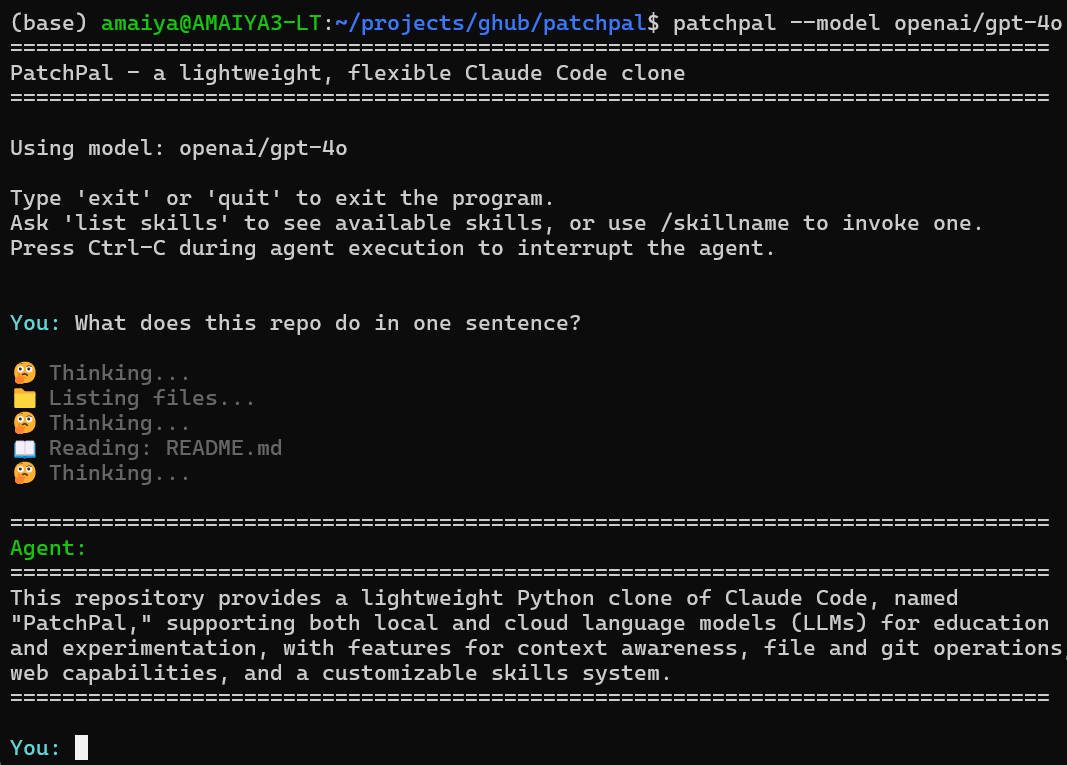
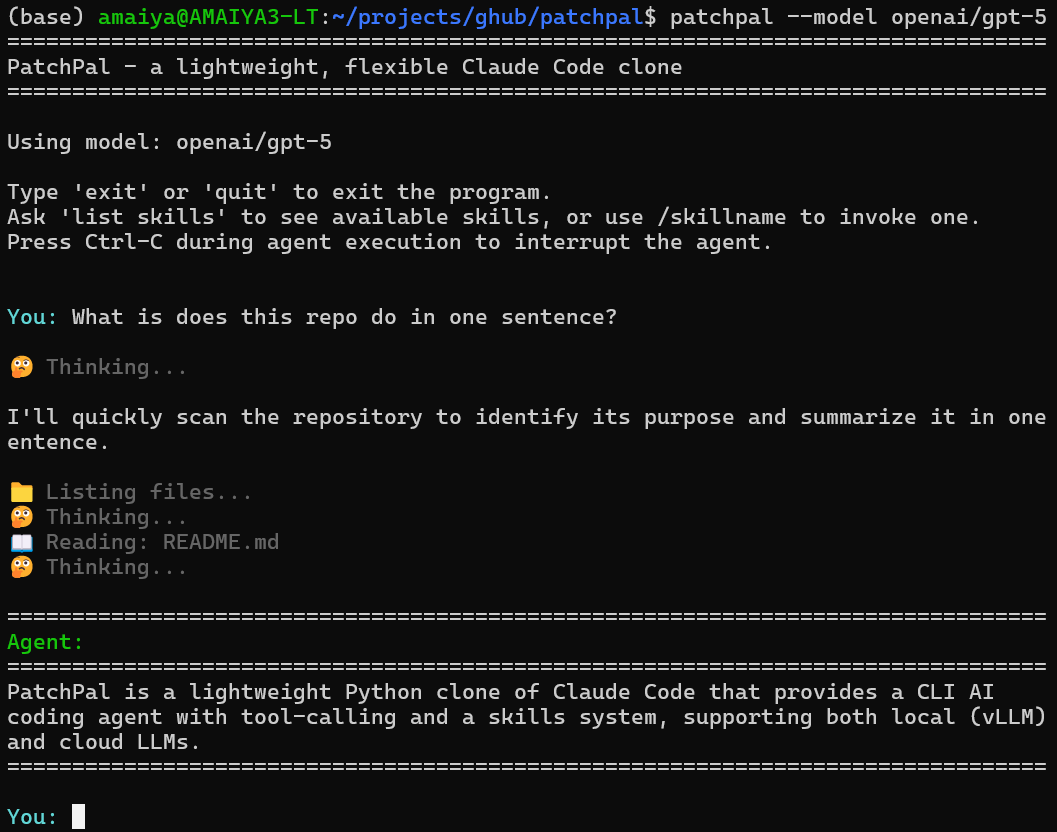
doc update

Changed region(s): [[0.0, 0.0, 1.0, 0.932], [0.0, 0.9621, 0.0937, 1.0]]

diff --git a/README.md b/README.md
@@ -19,8 +19,7 @@ Install PatchPal from PyPI:
 pip install patchpal
 ```
 
-Linux, Windows Subsystem for Linux ([WSL](https://learn.microsoft.com/en-us/windows/wsl/install)), and MacOS are the recommended OS environments.
-Running PatchPal direcly on a Windows 11 OS should work but is not officially supported or tested.
+**Recommended Operating Systems:** Linux, Windows Subsystem for Linux ([WSL](https://learn.microsoft.com/en-us/windows/wsl/install)), and MacOS are the recommended OS environments. Running PatchPal direcly on a Windows 11 OS should also work but is not thoroughly tested.
 
 
 ## Setup
@@ -42,10 +41,10 @@ export ANTHROPIC_API_KEY=your_api_key_here
 export OPENAI_API_KEY=your_api_key_here
 
 # For vLLM - no API key needed (unless configured)!
-export HOSTED_VLLM_API_BASE=http://localhost:8000 # changeme
+export HOSTED_VLLM_API_BASE=http://localhost:8000 # depends on your vLLM setup
 export HOSTED_VLLM_API_KEY=token-abc123           # optional depending on your vLLM setup
 
-# For other providers, check LiteLLM docs.
+# For other providers, check LiteLLM docs
 ```
 
 3. **Run PatchPal**:
@@ -54,7 +53,7 @@ export HOSTED_VLLM_API_KEY=token-abc123           # optional depending on your v
 patchpal
 
 # Use a specific model via command-line argument
-patchpal --model openai/gpt-4o
+patchpal --model openai/gpt-5
 
 # Use vLLM (local)
 # Note: vLLM server must be started with --tool-call-parser and --enable-auto-tool-choice
@@ -67,7 +66,7 @@ patchpal --model hosted_vllm/openai/gpt-oss-20b
 patchpal --model ollama/llama3.1
 
 # Or set the model via environment variable
-export PATCHPAL_MODEL=openai/gpt-4o
+export PATCHPAL_MODEL=openai/gpt-5
 patchpal
 ```
 
@@ -215,14 +214,14 @@ PatchPal supports any LiteLLM-compatible model. You can configure the model in t
 
 ### 1. Command-line Argument
 ```bash
-patchpal --model openai/gpt-4o
+patchpal --model openai/gpt-5
 patchpal --model anthropic/claude-sonnet-4-5
 patchpal --model hosted_vllm/openai/gpt-oss-20b # local model - no API charges
 ```
 
 ### 2. Environment Variable
 ```bash
-export PATCHPAL_MODEL=openai/gpt-4o
+export PATCHPAL_MODEL=openai/gpt-5
 patchpal
 ```
 
@@ -234,7 +233,7 @@ If no model is specified, PatchPal uses `anthropic/claude-sonnet-4-5` (Claude So
 PatchPal works with any model supported by LiteLLM, including:
 
 - **Anthropic** (Recommended): `anthropic/claude-sonnet-4-5`, `anthropic/claude-opus-4-5`, `anthropic/claude-3-7-sonnet-latest`
-- **OpenAI**: `openai/gpt-4o`, `openai/gpt-4-turbo`, `openai/gpt-3.5-turbo`
+- **OpenAI**: `openai/gpt-5`, `openai/gpt-4o`
 - **AWS Bedrock**: `bedrock/anthropic.claude-sonnet-4-5-v1:0`, or full ARNs for GovCloud/VPC endpoints
 - **vLLM (Local)** (Recommended for local): See vLLM section for setup
 - **Google**: `gemini/gemini-pro`, `vertex_ai/gemini-pro`
